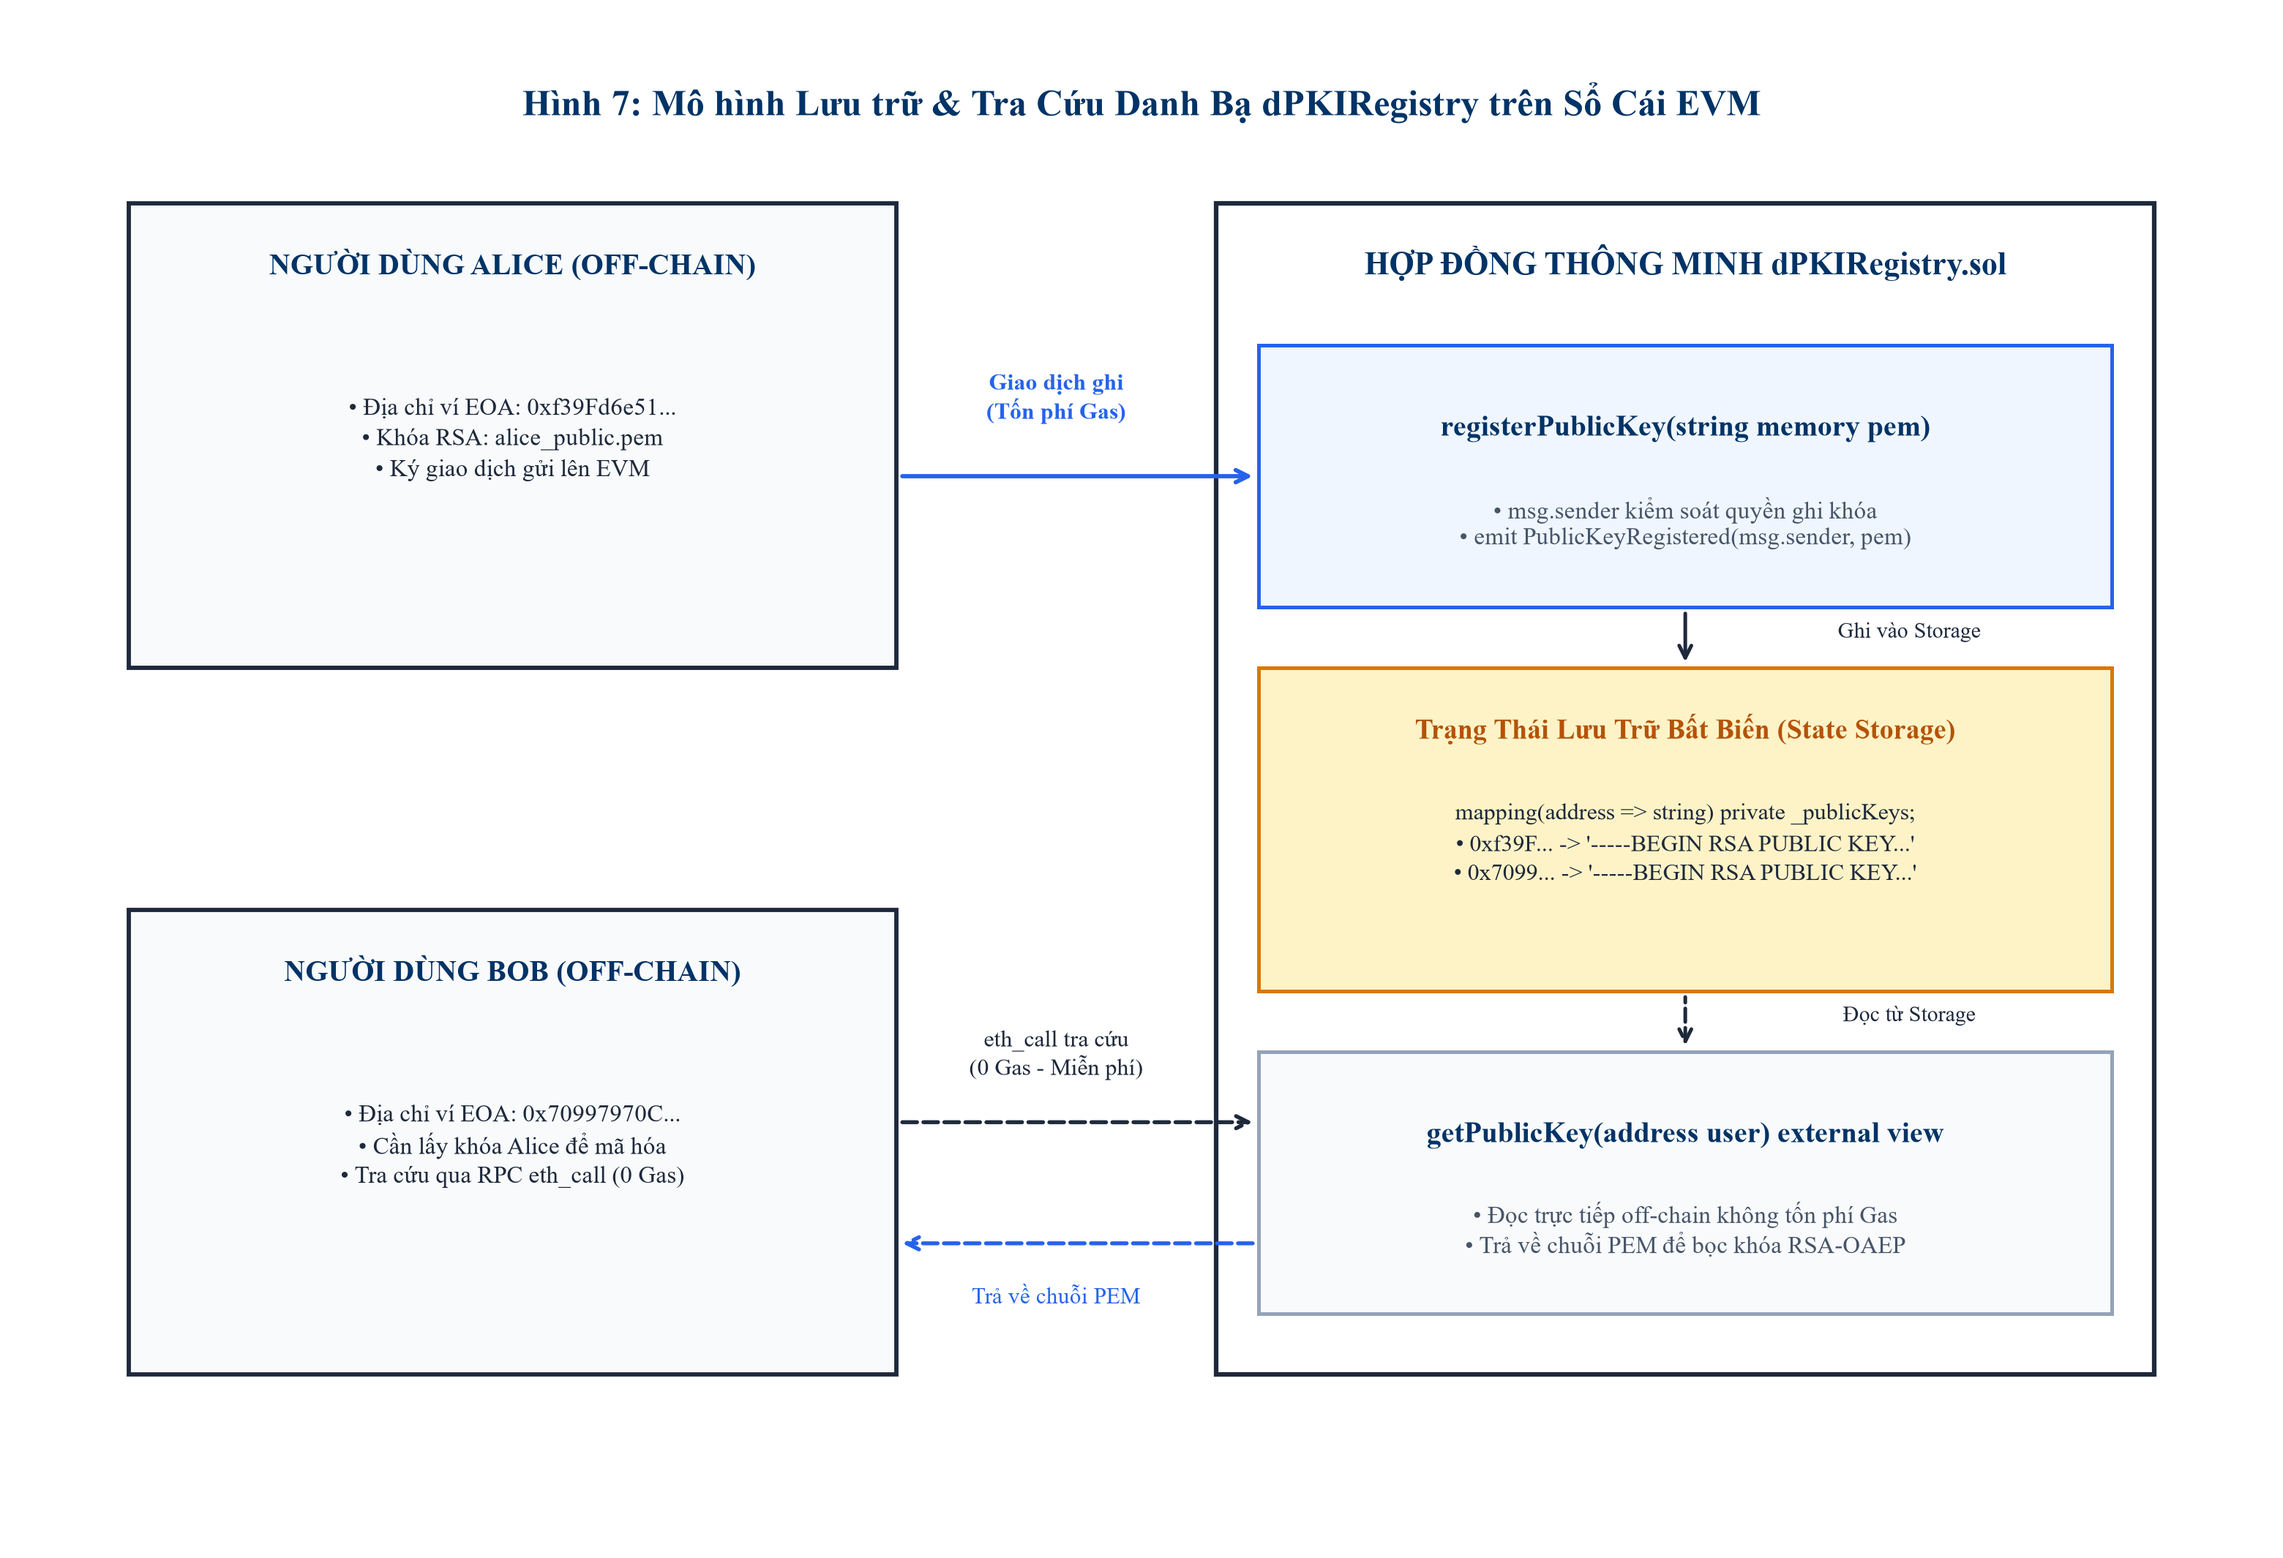
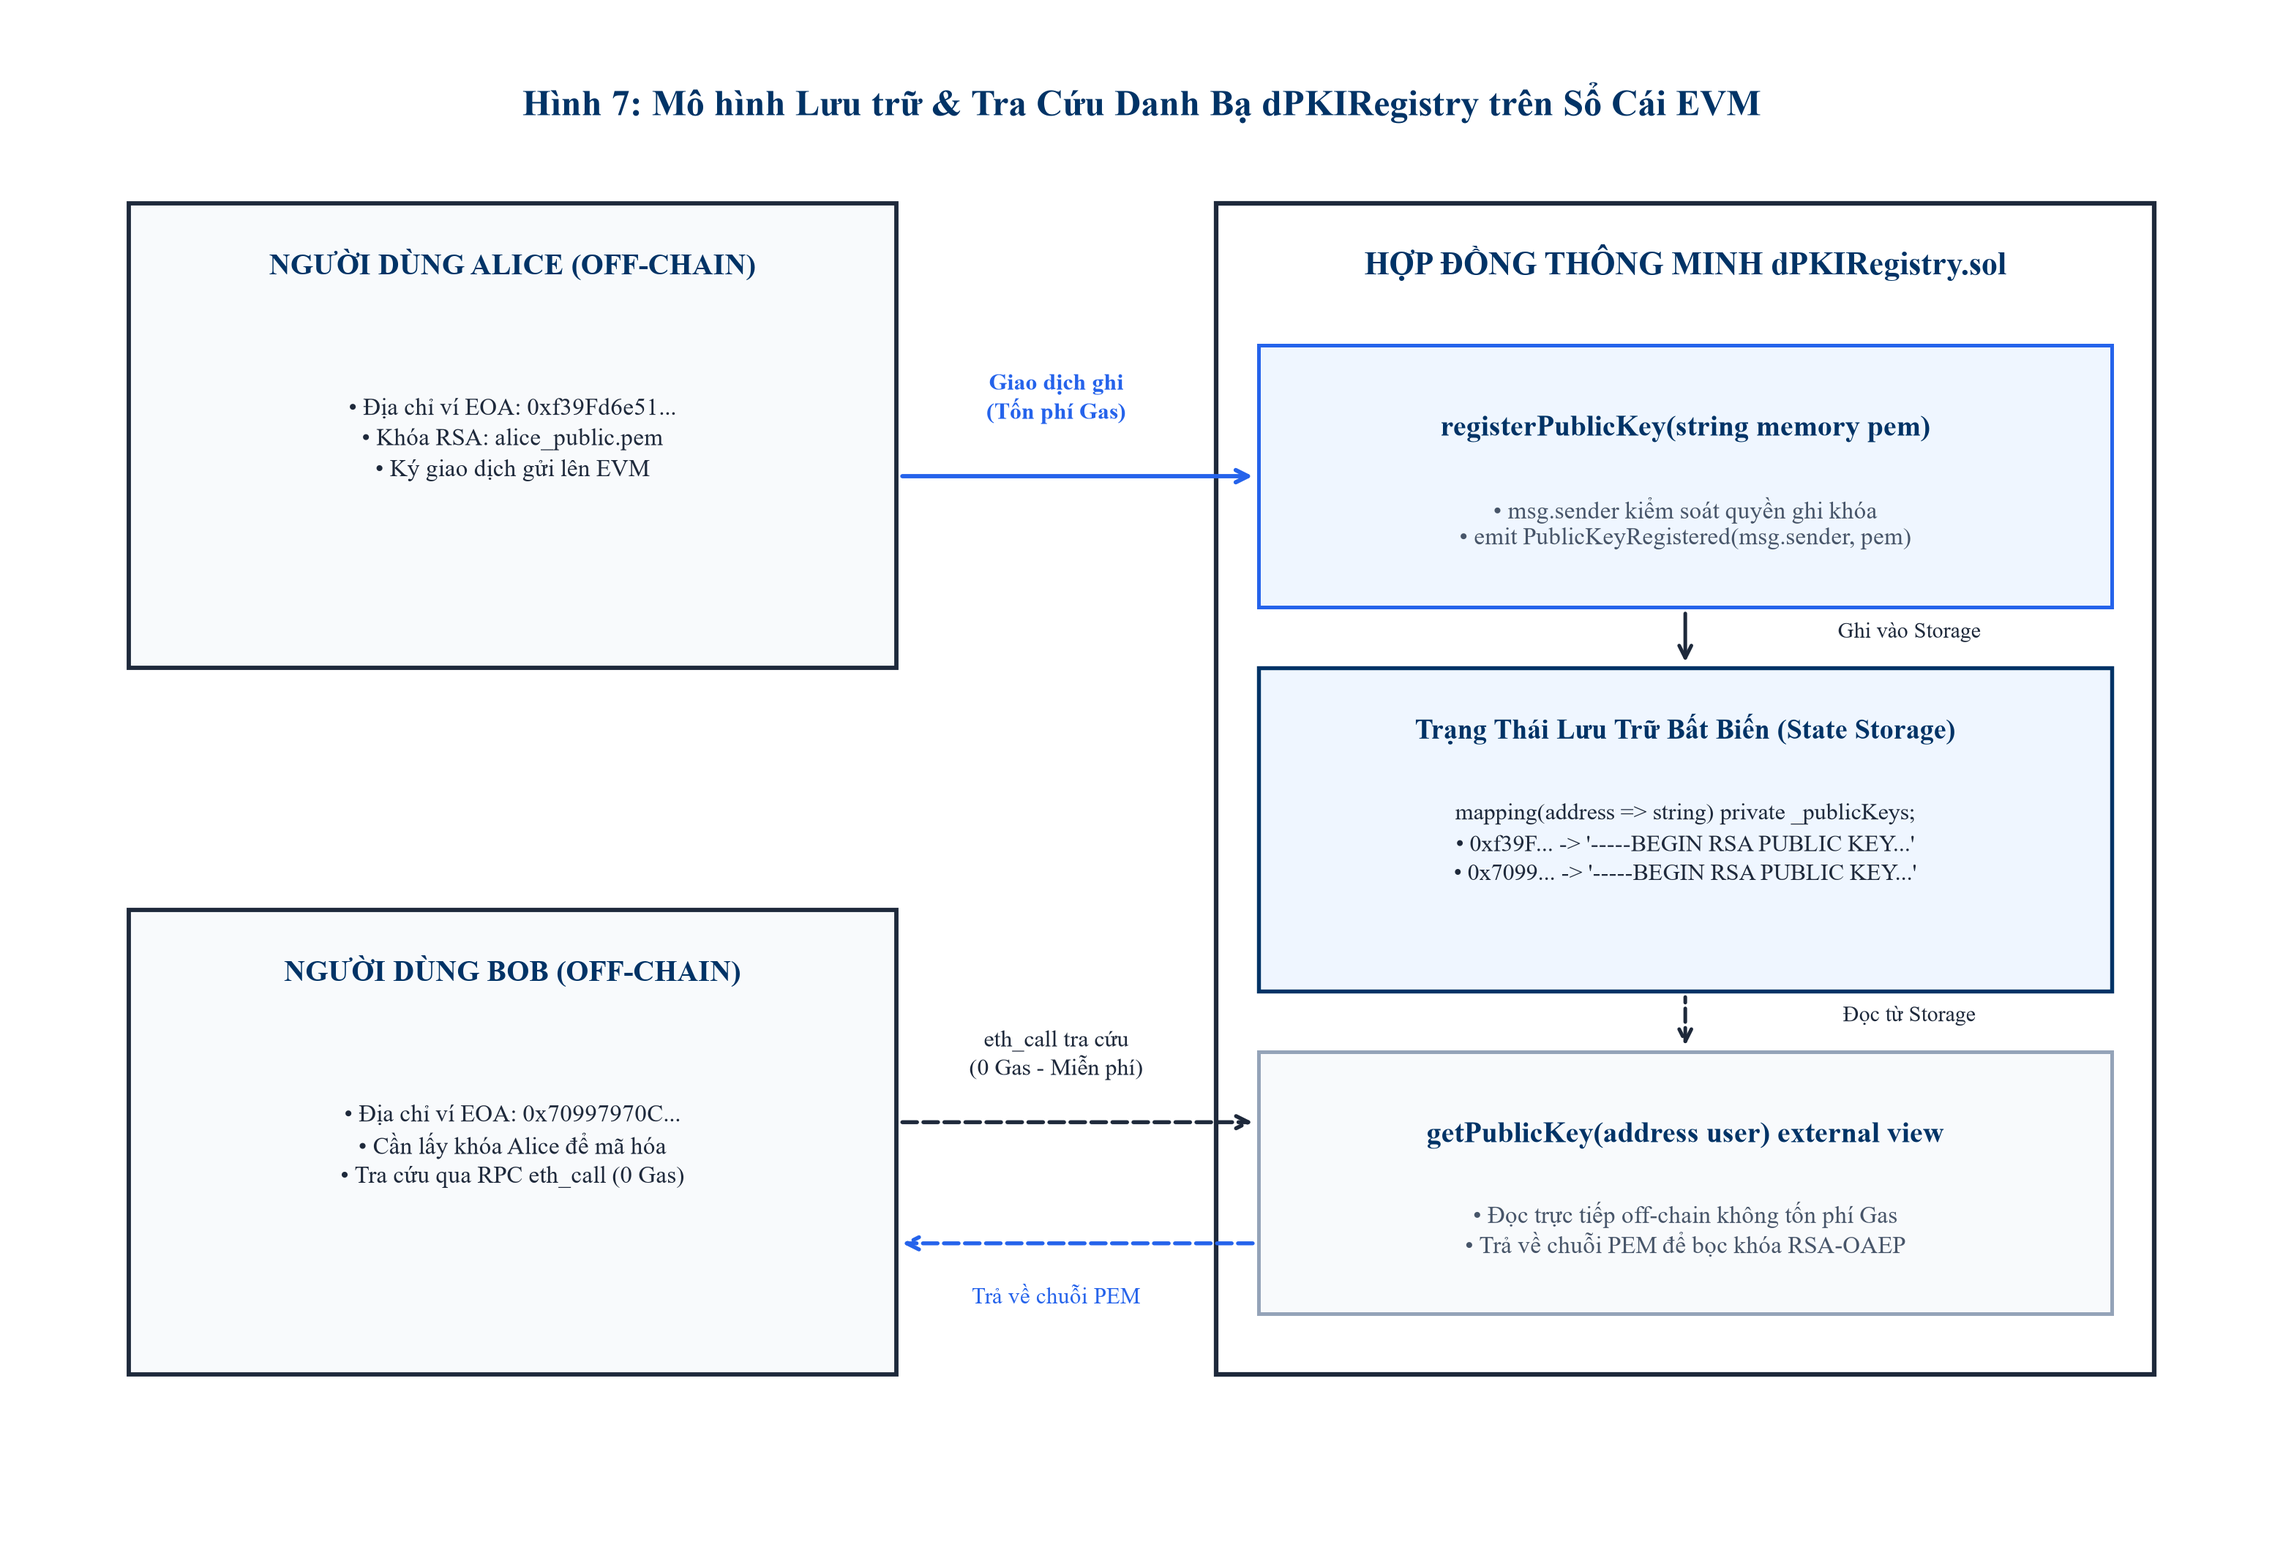
fix(figures): fix Fig 9 border overlap and enforce strict tri-color palette (blue, black, red)

Changed region(s): [[0.5285, 0.4028, 0.9327, 0.6507]]

diff --git a/scripts/generate_all_figures.py b/scripts/generate_all_figures.py
@@ -365,9 +365,9 @@ def draw_fig_04():
         draw_academic_box(ax, 0.5 + i * 0.55, 4.1, 0.5, 0.6, title="D", bg="#FFFFFF", title_size=8.0)
     ax.text(5.0, 4.4, "... (16B Data)", fontsize=8.0, va="center", color=MID_SLATE)
     for i in range(4):
-        draw_academic_box(ax, 6.5 + i * 0.55, 4.1, 0.5, 0.6, title="10", bg="#FEF3C7",
-                          border="#D97706", title_size=8.0)
-    ax.text(8.8, 4.4, "... (16 bytes 0x10)", fontsize=8.0, va="center", color="#D97706")
+        draw_academic_box(ax, 6.5 + i * 0.55, 4.1, 0.5, 0.6, title="10", bg="#FEE2E2",
+                          border="#DC2626", title_size=8.0)
+    ax.text(8.8, 4.4, "... (16 bytes 0x10)", fontsize=8.0, va="center", color="#DC2626")
     ax.text(9.9, 4.4, "= 32 B", fontsize=9.0, va="center", color=NAVY, fontweight="bold")
 
     # Quy trình giải đệm an toàn (Constant-time Unpad)
@@ -436,7 +436,7 @@ def draw_fig_05():
     ax.text(9.0, 4.7, r"$\oplus$", fontsize=13, ha="center", va="center", color=NAVY, zorder=4)
 
     draw_academic_box(ax, 7.6, 1.6, 2.8, 0.85, title="Khối Dữ Liệu Đã Che (maskedDB)",
-                      subtitle=r"maskedDB = DB $\oplus$ dbMask", bg="#FEF3C7", border="#D97706")
+                      subtitle=r"maskedDB = DB $\oplus$ dbMask", bg="#EFF6FF", border=MUTED_BLUE)
 
     # 3. Hàm Sinh Mặt Nạ MGF1 (Cột Giữa, tâm x=5.5)
     # 3.1 MGF1 Vòng 1 (Tạo dbMask từ Seed)
@@ -501,7 +501,7 @@ def draw_fig_06():
     draw_academic_box(ax, 4.3, 6.5, 3.0, 0.85, title="Băm SHA-256",
                       subtitle="mHash = Hash(M) (32B)", bg="#F8FAFC")
     draw_academic_box(ax, 7.8, 6.5, 3.1, 0.85, title="Muối Salt Ngẫu Nhiên",
-                      subtitle="sLen = 32 bytes từ CSPRNG", bg="#FEF3C7", border="#D97706")
+                      subtitle="sLen = 32 bytes từ CSPRNG", bg="#FEE2E2", border="#DC2626")
 
     # Mũi tên ngang M -> mHash
     ax.annotate("", xy=(4.3, 6.92), xytext=(3.8, 6.92), arrowprops=dict(arrowstyle="->", color=DARK_SLATE, lw=1.2))
@@ -533,7 +533,7 @@ def draw_fig_06():
     ax.annotate("", xy=(1.9, 2.92), xytext=(1.9, 3.7), arrowprops=dict(arrowstyle="->", color=DARK_SLATE, lw=1.2))
 
     draw_academic_box(ax, 0.6, 1.35, 2.6, 0.75, title="Khối Đã Che (maskedDB)",
-                      subtitle=r"maskedDB = DB $\oplus$ dbMask", bg="#FEF3C7", border="#D97706")
+                      subtitle=r"maskedDB = DB $\oplus$ dbMask", bg="#EFF6FF", border=MUTED_BLUE)
     ax.annotate("", xy=(1.9, 2.1), xytext=(1.9, 2.48), arrowprops=dict(arrowstyle="->", color=DARK_SLATE, lw=1.2))
 
     # 3.3 Cột 2: MGF1(H) sinh dbMask
@@ -612,8 +612,8 @@ def draw_fig_07():
                        bg="#EFF6FF", border=MUTED_BLUE, z=2)
 
     # Khối 2.2: Trạng thái State Storage (Ở giữa)
-    draw_academic_box(ax, 5.8, 2.7, 4.0, 1.6, bg="#FEF3C7", border="#D97706", lw=1.2, z=2)
-    ax.text(7.8, 3.95, "Trạng Thái Lưu Trữ Bất Biến (State Storage)", ha="center", fontsize=9.0, fontweight="bold", color="#B45309", zorder=3)
+    draw_academic_box(ax, 5.8, 2.7, 4.0, 1.6, bg="#EFF6FF", border=NAVY, lw=1.3, z=2)
+    ax.text(7.8, 3.95, "Trạng Thái Lưu Trữ Bất Biến (State Storage)", ha="center", fontsize=9.0, fontweight="bold", color=NAVY, zorder=3)
     ax.text(7.8, 3.25, "mapping(address => string) private _publicKeys;\n"
                        "• 0xf39F... -> '-----BEGIN RSA PUBLIC KEY...'\n"
                        "• 0x7099... -> '-----BEGIN RSA PUBLIC KEY...'",
@@ -720,69 +720,69 @@ def draw_fig_08():
 # HÌNH 9: VÒNG ĐỜI STAGING - RETRIEVAL - PURGE TRÊN BỘ NHỚ RAM
 # ==============================================================================
 def draw_fig_09():
-    fig, ax = plt.subplots(figsize=(10.5, 7.2))
-    ax.set_xlim(0, 10.5)
-    ax.set_ylim(0, 7.5)
+    fig, ax = plt.subplots(figsize=(11.0, 7.6))
+    ax.set_xlim(0, 11.0)
+    ax.set_ylim(0, 7.6)
     ax.axis("off")
 
-    ax.text(5.25, 7.1, "Hình 9: Vòng Đời Staging - Retrieval - Purge của Payload trên Bộ Nhớ RAM",
+    ax.text(5.5, 7.2, "Hình 9: Vòng Đời Staging - Retrieval - Purge của Payload trên Bộ Nhớ RAM",
             ha="center", va="center", fontsize=12, fontweight="bold", color=NAVY)
 
-    # 1. State 1: Staged (Cột 1)
-    draw_academic_box(ax, 0.6, 2.2, 2.6, 2.8, title="TRẠNG THÁI: STAGED",
-                      subtitle="• Lưu trên Heap RAM\n• expires_at = now + 60s\n• Kiểu dữ liệu bytearray\n• Ghi đĩa vật lý = 0\n• Đang chờ Bob truy vấn",
-                      bg="#EFF6FF", border=MUTED_BLUE, lw=1.3)
+    # 1. State 1: Staged (Cột 1 - Xanh Biển)
+    draw_academic_box(ax, 0.6, 2.0, 2.7, 4.5, title="TRẠNG THÁI: STAGED",
+                      subtitle="• Lưu trên Heap RAM (bytearray)\n• Khóa truy vấn: tx_id (UUID4)\n• expires_at = now + 60s\n• Ghi đĩa cứng vật lý = 0\n• Đang chờ Bob gửi request",
+                      bg="#EFF6FF", border=MUTED_BLUE, lw=1.4)
 
     # 2. Hai Nhánh Kích Hoạt Tẩy Xóa (Cột 2)
-    # Nhánh 1: Burn-After-Read (Trên)
-    draw_academic_box(ax, 4.1, 4.2, 2.8, 1.8, title="ĐỌC VÀ TỰ HỦY\n(Burn-After-Read)",
-                      subtitle="• Bob rút tệp thành công\n• Gọi _purge_one(tx_id)\n• Kích hoạt tẩy xóa ngay",
-                      bg="#FEF3C7", border="#D97706", lw=1.3)
+    # Nhánh 1: Burn-After-Read (Trên - Đen / Chuẩn Academic)
+    draw_academic_box(ax, 4.2, 4.5, 2.8, 1.9, title="ĐỌC VÀ TỰ HỦY\n(Burn-After-Read)",
+                      subtitle="• Bob gửi EIP-191 hợp lệ\n• Trả tệp cho Bob giải mã\n• Gọi ngay _purge_one(tx_id)\n• Kích hoạt tẩy xóa tức thì",
+                      bg="#FFFFFF", border=DARK_SLATE, lw=1.3)
 
-    # Nhánh 2: TTL Purge Loop (Dưới)
-    draw_academic_box(ax, 4.1, 1.4, 2.8, 1.8, title="HẾT HẠN THỜI GIAN\n(TTL Purge Loop)",
-                      subtitle="• Quét ngầm mỗi 5 giây\n• Phát hiện now >= expires_at\n• Kích hoạt tẩy xóa cưỡng chế",
+    # Nhánh 2: TTL Purge Loop (Dưới - Đỏ)
+    draw_academic_box(ax, 4.2, 2.1, 2.8, 1.9, title="HẾT HẠN THỜI GIAN\n(TTL Purge Loop)",
+                      subtitle="• Luồng quét ngầm mỗi 5 giây\n• Phát hiện now >= expires_at\n• Quá hạn TTL (Timeout 60s)\n• Tẩy xóa RAM cưỡng chế",
                       bg="#FEE2E2", border="#DC2626", lw=1.3)
 
-    # 3. State 3: Purged (Cột 3)
-    draw_academic_box(ax, 7.7, 2.2, 2.6, 2.8, title="TRẠNG THÁI: PURGED\n(TIÊU HỦY HOÀN TOÀN)",
-                      subtitle="• _wipe_bytes(0x00)\n• del _data[tx_id]\n• GC giải phóng Heap\n• Mọi truy cập sau: 404\n• Bất biến: Không thể khôi phục",
-                      bg="#F1F5F9", border=DARK_SLATE, lw=1.3)
+    # 3. State 3: Purged (Cột 3 - Đen / Khung Tối Giản)
+    draw_academic_box(ax, 7.9, 2.0, 2.7, 4.5, title="TRẠNG THÁI: PURGED\n(TIÊU HỦY HOÀN TOÀN)",
+                      subtitle="• Ghi đè bộ nhớ _wipe_bytes(0x00)\n• del _data[tx_id] (Hủy con trỏ)\n• GC thu hồi bộ nhớ Heap RAM\n• Mọi truy vấn sau: Trả HTTP 404\n• Bất biến: Không thể khôi phục",
+                      bg="#F8FAFC", border=DARK_SLATE, lw=1.4)
 
-    # Các mũi tên liên kết vuông góc (Orthogonal State Machine Flow)
-    # 1. STAGED -> Burn-After-Read
-    ax.plot([3.2, 3.65, 3.65], [3.8, 3.8, 5.1], color=DARK_SLATE, lw=1.3)
-    ax.annotate("", xy=(4.1, 5.1), xytext=(3.65, 5.1),
+    # Các mũi tên ngang trực giao hoàn toàn (Orthogonal Non-Colliding Flow)
+    # 1. STAGED -> Burn-After-Read (Ngang hoàn toàn)
+    ax.annotate("", xy=(4.2, 5.45), xytext=(3.3, 5.45),
                 arrowprops=dict(arrowstyle="->", color=DARK_SLATE, lw=1.3))
-    ax.text(3.65, 5.35, "GET /retrieve", fontsize=7.5, color=DARK_SLATE, ha="center",
+    ax.text(3.75, 5.68, "GET /retrieve\n(Hợp lệ)", fontsize=7.5, color=DARK_SLATE,
+            ha="center", va="bottom",
             bbox=dict(boxstyle="square,pad=0.15", fc="#FFFFFF", ec="none"))
 
-    # 2. STAGED -> TTL Purge Loop
-    ax.plot([3.2, 3.65, 3.65], [3.4, 3.4, 2.3], color="#DC2626", lw=1.3, ls="--")
-    ax.annotate("", xy=(4.1, 2.3), xytext=(3.65, 2.3),
+    # 2. STAGED -> TTL Purge Loop (Ngang hoàn toàn - Đỏ)
+    ax.annotate("", xy=(4.2, 3.05), xytext=(3.3, 3.05),
                 arrowprops=dict(arrowstyle="->", color="#DC2626", lw=1.3, ls="--"))
-    ax.text(3.65, 2.05, "Quá hạn TTL", fontsize=7.5, color="#DC2626", ha="center",
+    ax.text(3.75, 3.28, "Quá hạn TTL\n(>= 60s)", fontsize=7.5, color="#DC2626",
+            ha="center", va="bottom",
             bbox=dict(boxstyle="square,pad=0.15", fc="#FFFFFF", ec="none"))
 
-    # 3. Burn-After-Read -> PURGED
-    ax.plot([6.9, 7.3, 7.3], [5.1, 5.1, 3.8], color=DARK_SLATE, lw=1.3)
-    ax.annotate("", xy=(7.7, 3.8), xytext=(7.3, 3.8),
+    # 3. Burn-After-Read -> PURGED (Ngang hoàn toàn)
+    ax.annotate("", xy=(7.9, 5.45), xytext=(7.0, 5.45),
                 arrowprops=dict(arrowstyle="->", color=DARK_SLATE, lw=1.3))
-    ax.text(7.3, 5.35, "Ghi đè 0x00", fontsize=7.5, color=DARK_SLATE, ha="center",
+    ax.text(7.45, 5.68, "Ghi đè 0x00\n& Tẩy xóa", fontsize=7.5, color=DARK_SLATE,
+            ha="center", va="bottom",
             bbox=dict(boxstyle="square,pad=0.15", fc="#FFFFFF", ec="none"))
 
-    # 4. TTL Purge Loop -> PURGED
-    ax.plot([6.9, 7.3, 7.3], [2.3, 2.3, 3.4], color="#DC2626", lw=1.3, ls="--")
-    ax.annotate("", xy=(7.7, 3.4), xytext=(7.3, 3.4),
+    # 4. TTL Purge Loop -> PURGED (Ngang hoàn toàn - Đỏ)
+    ax.annotate("", xy=(7.9, 3.05), xytext=(7.0, 3.05),
                 arrowprops=dict(arrowstyle="->", color="#DC2626", lw=1.3, ls="--"))
-    ax.text(7.3, 2.05, "Tẩy xóa RAM", fontsize=7.5, color="#DC2626", ha="center",
+    ax.text(7.45, 3.28, "Cưỡng chế\nTẩy xóa RAM", fontsize=7.5, color="#DC2626",
+            ha="center", va="bottom",
             bbox=dict(boxstyle="square,pad=0.15", fc="#FFFFFF", ec="none"))
 
-    # Cam kết dưới đáy
-    draw_academic_box(ax, 0.6, 0.6, 9.7, 0.9,
+    # Cam kết dưới đáy (Khoảng cách an toàn rộng rãi 0.7 units bên dưới TTL Purge Loop)
+    draw_academic_box(ax, 0.6, 0.5, 10.0, 0.9,
                       title="Cam Kết Bất Biến Kiến Trúc Zero-Log Broker",
                       subtitle="Không tạo file tạm, không lưu cache đĩa, tắt Uvicorn access log, xóa sạch RAM trước khi hủy tham chiếu.",
-                      bg="#FFFFFF", lw=1.1, title_size=9.0, sub_size=8.0)
+                      bg="#FFFFFF", border=DARK_SLATE, lw=1.2, title_size=9.2, sub_size=8.0)
 
     plt.tight_layout()
     plt.savefig(OUT_DIR / "hinh_09_ram_store_lifecycle.png")
@@ -855,7 +855,7 @@ def draw_fig_11():
     ]
     y_pos = np.arange(len(operations))
     gas_costs = [285420, 68230, 28450, 14200, 0]
-    colors = [NAVY, "#2563EB", "#60A5FA", "#93C5FD", "#10B981"]
+    colors = [NAVY, "#1E40AF", "#2563EB", "#60A5FA", "#94A3B8"]
 
     bars = ax.barh(y_pos, gas_costs, align="center", color=colors,
                    edgecolor=DARK_SLATE, linewidth=1.1, height=0.55)
@@ -875,7 +875,7 @@ def draw_fig_11():
                     f"{val:,} Gas", va="center", fontsize=8.5, fontweight="bold", color=DARK_SLATE)
         else:
             ax.text(5000, bar.get_y() + bar.get_height() / 2,
-                    "0 Gas (Miễn Phí Hoàn Toàn)", va="center", fontsize=8.5, fontweight="bold", color="#047857")
+                    "0 Gas (Miễn Phí Hoàn Toàn)", va="center", fontsize=8.5, fontweight="bold", color=NAVY)
 
     plt.tight_layout()
     plt.savefig(OUT_DIR / "hinh_11_gas_analysis.png")
@@ -1207,9 +1207,9 @@ def draw_fig_17():
     ax.text(7.4, 2.95, "10:43", color=MID_SLATE, fontsize=6.5, zorder=4)
 
     # Badge tiến trình nền Streamlit
-    draw_academic_box(ax, 3.8, 2.15, 5.8, 0.45, title="", bg="#FEF3C7", border="#D97706", lw=1.0, z=3)
+    draw_academic_box(ax, 3.8, 2.15, 5.8, 0.45, title="", bg="#EFF6FF", border=MUTED_BLUE, lw=1.0, z=3)
     ax.text(6.7, 2.37, "Tiến trình quét ngầm: @st.fragment(run_every=2) quét hòm thư không giật lag giao diện",
-            fontsize=7.5, ha="center", va="center", color="#92400E", fontweight="bold", zorder=4)
+            fontsize=7.5, ha="center", va="center", color=NAVY, fontweight="bold", zorder=4)
 
     # 4. Input Area (Dưới cùng)
     draw_academic_box(ax, 3.6, 0.7, 6.2, 1.1, bg="#F8FAFC", border=BORDER_GRAY, lw=1.1, z=2)
